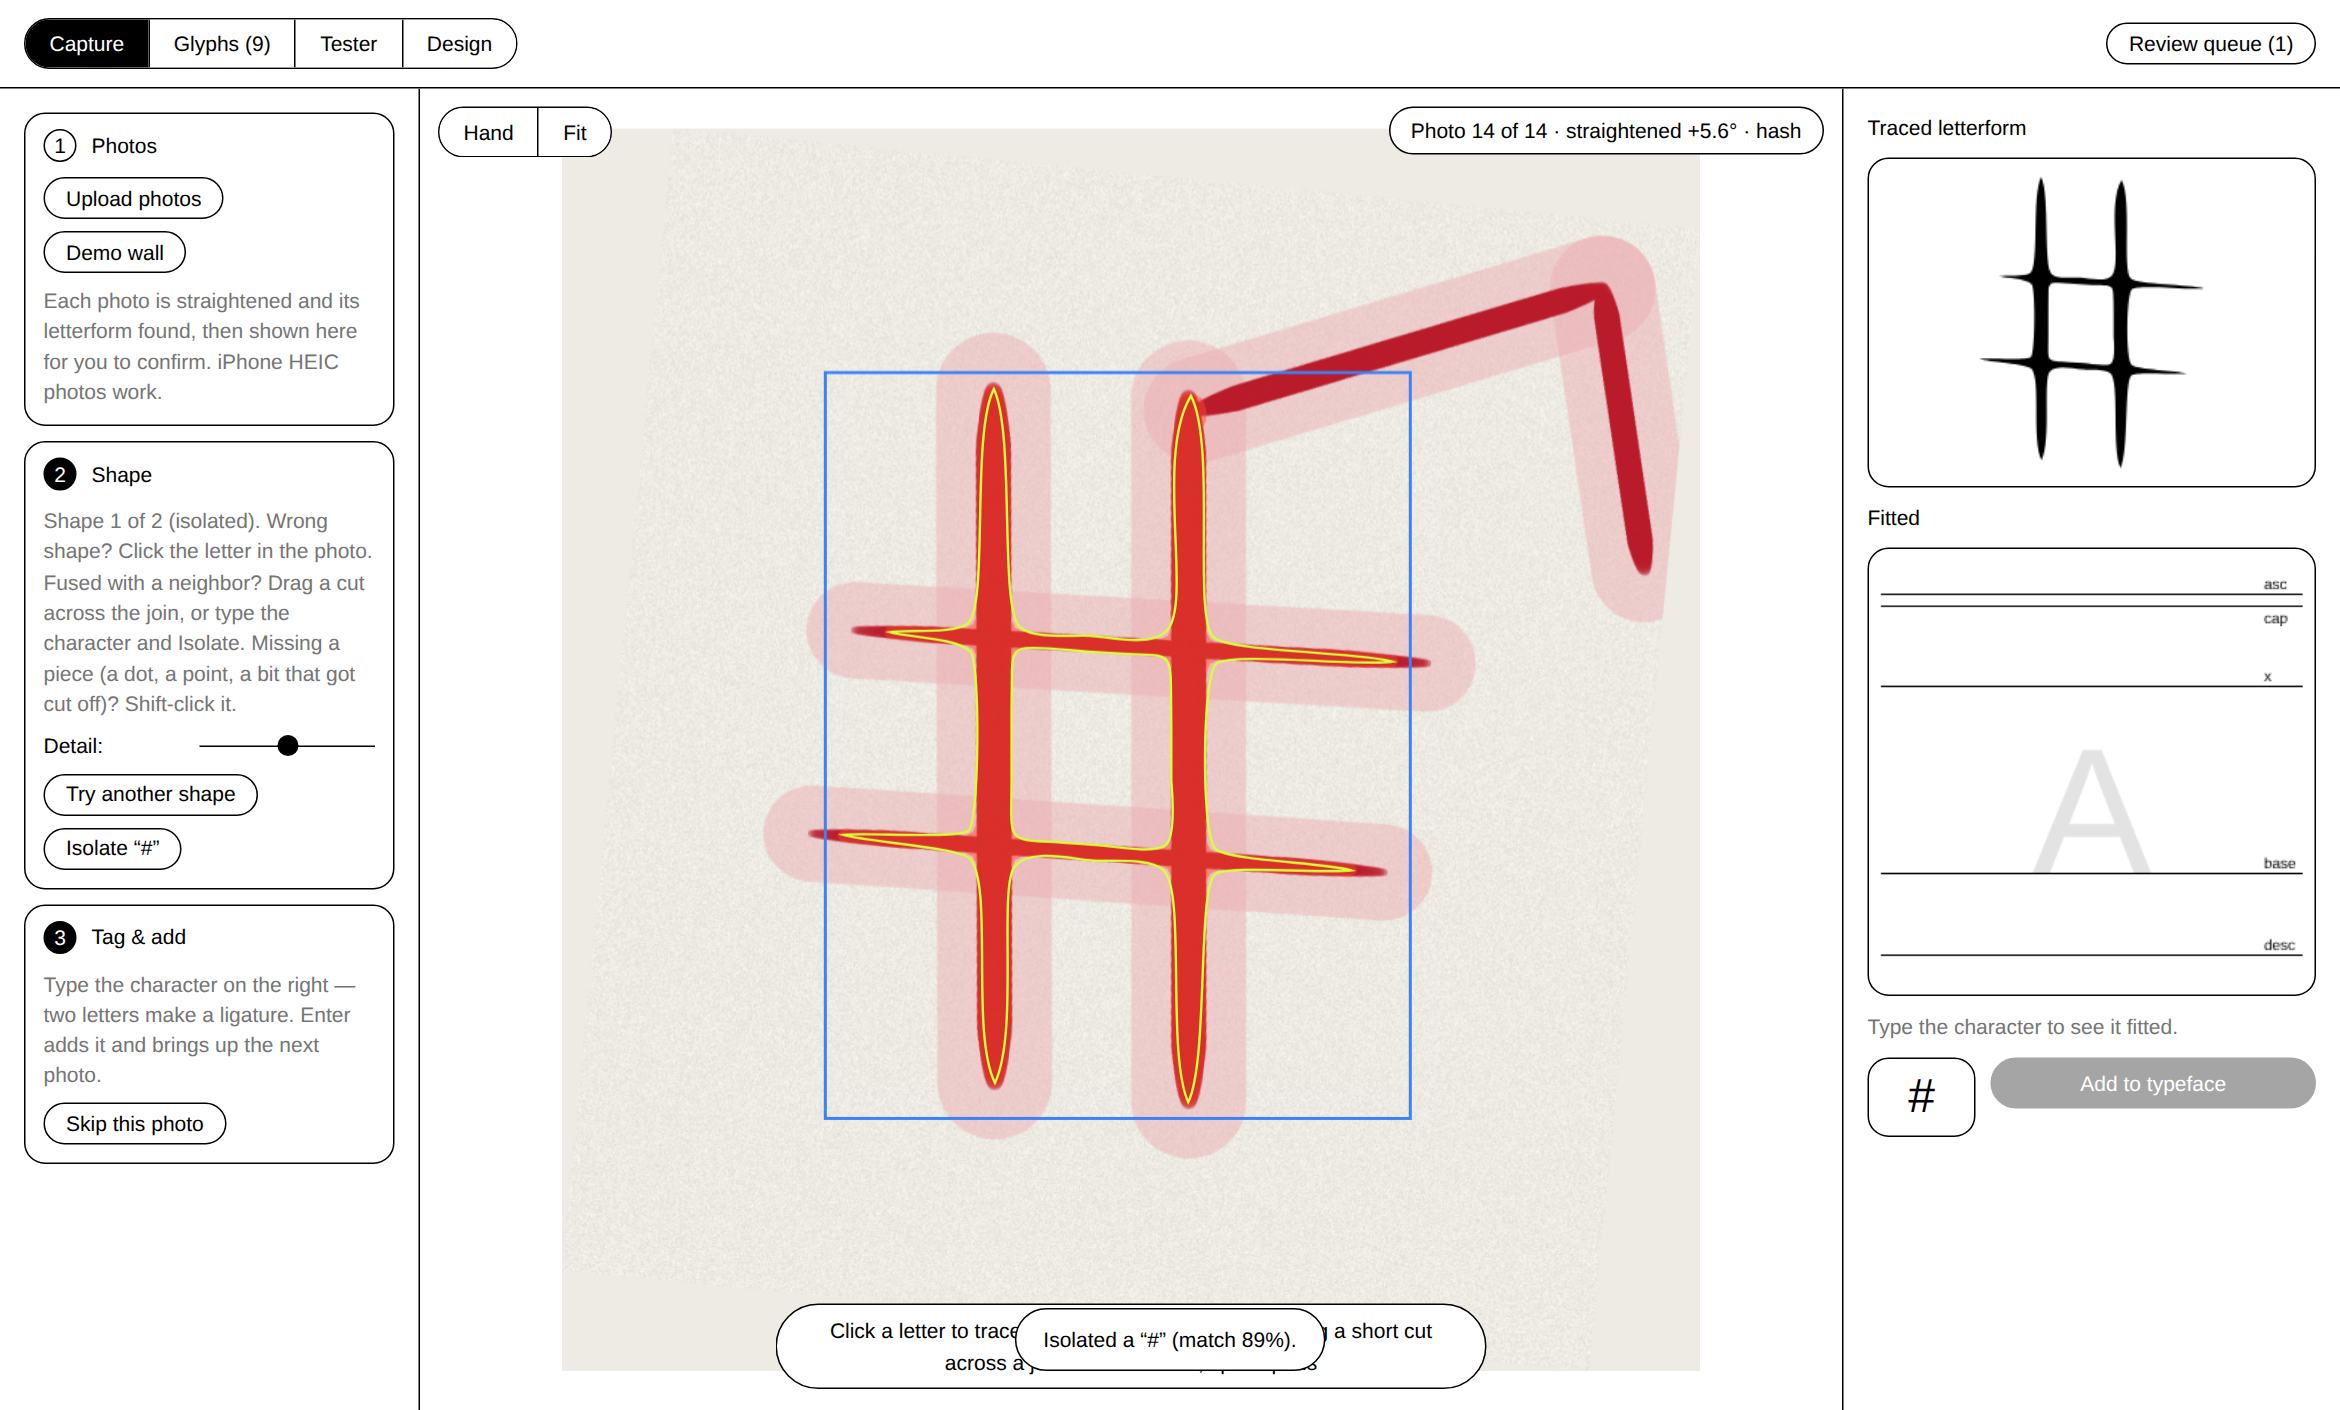
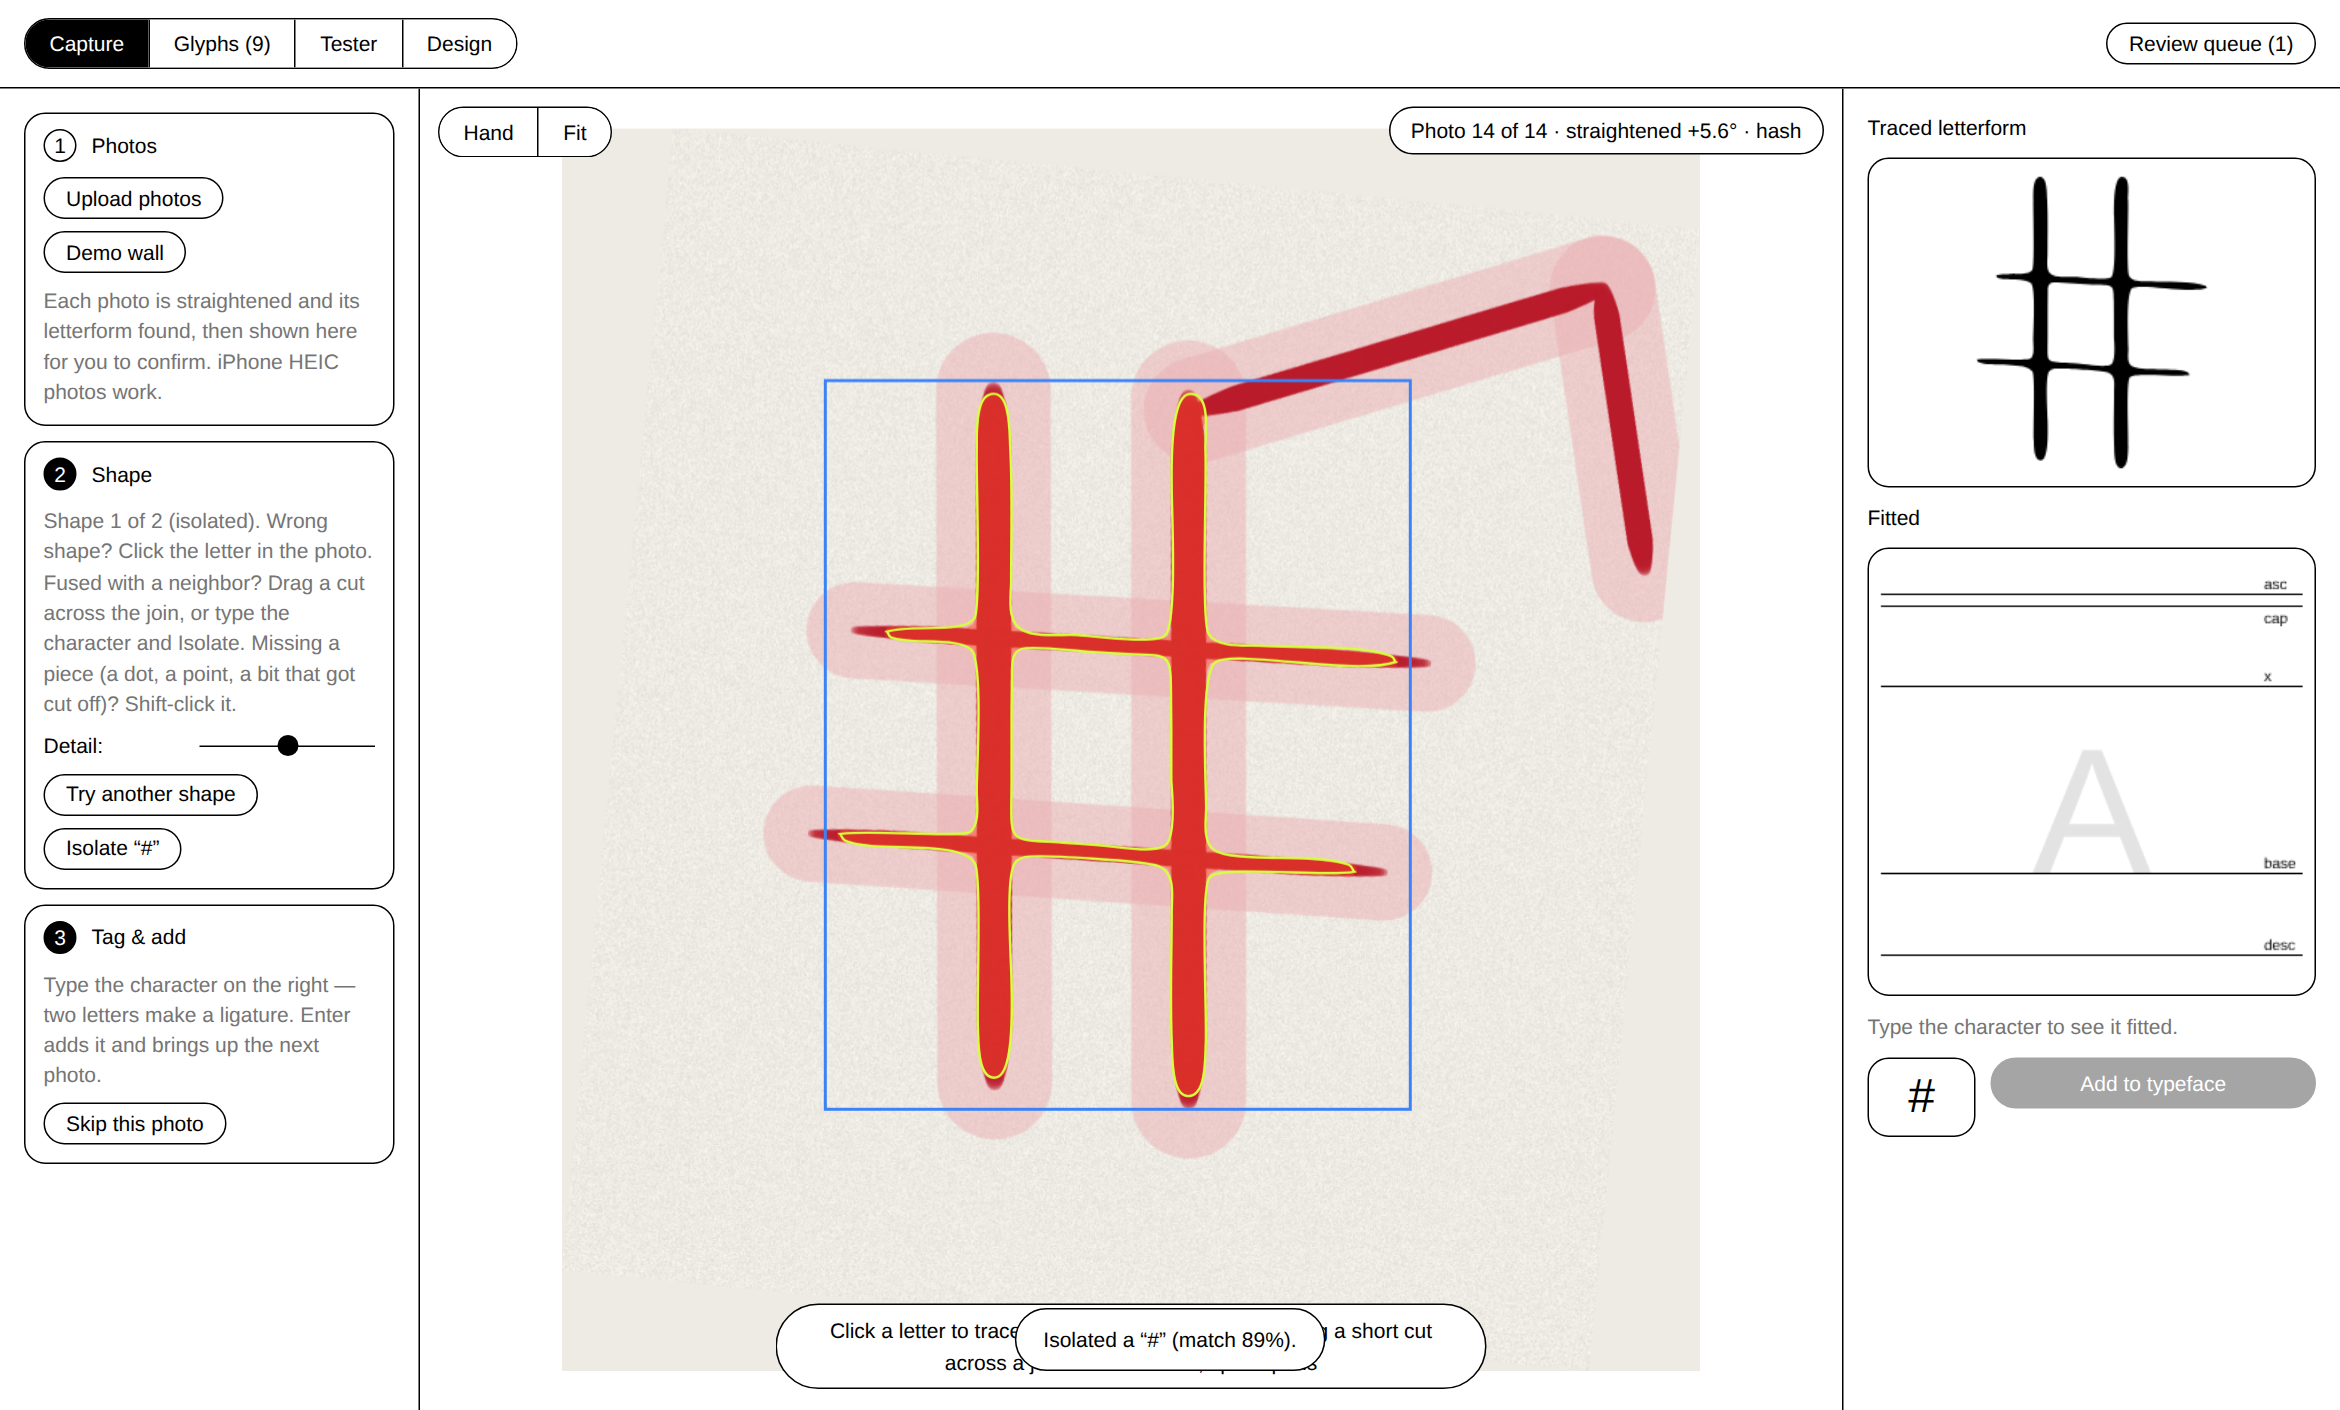
Marker caps: fading stroke ends become round, and the tracer keeps them round
A stroke that fades out — spray thinning, a marker lifting — tapers to a
point in the mask, and the tracer then read that point as a corner, so the
letter ended in a spike where the paint ended in a round tip.

- extract.capEnds walks the skeleton in from every free end to where the
  stroke has 70% of its body half-width back (within four half-widths),
  drops the taper beyond it (each ink pixel belongs to its nearest skeleton
  pixel) and ends the stroke with a disc of the local half-width. Ends that
  are already round are left alone, and so is anything wider than the stroke
  near its end (an arrowhead is drawn that way). Runs in cleanMask after
  the needle-point pruning.
- trace.vectorize caps its size-scaled tolerances by the stroke width: the
  box-smoothing window (≤0.3 sw), fit error (≤0.1 sw), corner span (≤0.35
  sw) and tangent span (≤0.6 sw), so a cap half a stroke across is fitted
  as a curve rather than flattened or split at a corner.
- On a synthetic marker k with fading ends the traced outline a third of a
  stroke in from each tip went from 19–22% of the stroke width (a point) to
  58–60% (a round cap); the genuinely round end reads 74%.

Tests: capEnds on a fading taper (trimmed, disc cap, far end untouched), a
stadium and an arrowhead left alone, and a round-ended stroke traced with no
sharp cubic join.

Claude-Session: https://claude.ai/code/session_01LpLU9S2UtvwRzH76eYZceq

diff --git a/test/caps.test.js b/test/caps.test.js
@@ -1,0 +1,87 @@
+'use strict';
+// Marker caps: fading stroke ends become round caps in the mask, and the
+// tracer keeps round ends round instead of sharpening them into corners.
+const { test } = require('node:test');
+const assert = require('node:assert');
+const { loadST } = require('./loader');
+
+const ST = loadST(['util.js', 'geometry.js', 'fitcurves.js', 'raster.js', 'trace.js', 'classify.js', 'extract.js']);
+
+// A horizontal stroke: round left cap at x0, half-width profile r(x) to x1.
+function stroke(w, h, cy, x0, x1, rOf) {
+  const m = new Uint8Array(w * h);
+  for (let x = x0; x <= x1; x++) {
+    const r = rOf(x);
+    if (!(r > 0)) continue;
+    for (let y = 0; y < h; y++) if (Math.abs(y - cy) <= r) m[y * w + x] = 1;
+  }
+  return m;
+}
+const count = (m) => ST.raster.count(m);
+function tipX(m, w, h) { let t = -1; for (let i = 0; i < m.length; i++) if (m[i]) t = Math.max(t, i % w); return t; }
+function colWidth(m, w, h, x) { let n = 0; for (let y = 0; y < h; y++) if (m[y * w + x]) n++; return n; }
+
+test('capEnds: a fading taper is cut back and ended with a round cap of the stroke width', () => {
+  const w = 260, h = 90, cy = 45, R = 14;
+  // round cap centred at 34, full width to 170, then a linear fade to a point at 230
+  const r = (x) => (x < 34 ? Math.sqrt(Math.max(0, R * R - (34 - x) * (34 - x))) : x <= 170 ? R : R - (R - 1) * ((x - 170) / 60));
+  const m = stroke(w, h, cy, 20, 230, r);
+  const sw = 2 * R;
+  const depth = Math.round(0.3 * sw);
+  const before = tipX(m, w, h);
+  assert.ok(colWidth(m, w, h, before - depth) < 0.3 * sw, `the taper is a point (${colWidth(m, w, h, before - depth)} px wide ${depth} px in)`);
+
+  const out = ST.extract.capEnds(m, w, h);
+  const tip = tipX(out, w, h);
+  assert.ok(tip >= 185 && tip <= 212, `taper trimmed to where the stroke has most of its width (tip at x=${tip})`);
+  const wid = colWidth(out, w, h, tip - depth);
+  assert.ok(wid >= 0.55 * sw, `round cap: ${wid} px wide ${depth} px in from the tip (stroke ${sw})`);
+  // the cap is a disc: widths shrink like a circle, never a wedge
+  const w2 = colWidth(out, w, h, tip - 2), w5 = colWidth(out, w, h, tip - 5);
+  assert.ok(w2 > 0 && w5 > w2 && wid > w5, `widths grow from the tip like a circle (${w2}, ${w5}, ${wid})`);
+  // the far, already-round end is untouched
+  let same = true;
+  for (let y = 0; y < h; y++) for (let x = 0; x < 120; x++) if (m[y * w + x] !== out[y * w + x]) same = false;
+  assert.ok(same, 'the round end and the body stay exactly as they were');
+});
+
+test('capEnds: a stroke that already ends in a round cap, or in an arrowhead, is left alone', () => {
+  const w = 260, h = 90, cy = 45, R = 14;
+  const stadium = stroke(w, h, cy, 20, 240, (x) => (x < 34 ? Math.sqrt(Math.max(0, R * R - (34 - x) ** 2)) : x <= 226 ? R : Math.sqrt(Math.max(0, R * R - (x - 226) ** 2))));
+  assert.strictEqual(count(ST.extract.capEnds(stadium, w, h)), count(stadium), 'stadium unchanged');
+  // thin shaft with a triangular head that comes to a point: drawn that way, not faded
+  const arrow = stroke(w, h, cy, 20, 215, (x) => (x < 28 ? Math.sqrt(Math.max(0, 64 - (28 - x) ** 2)) : x <= 165 ? 8 : 24 * (215 - x) / 50));
+  assert.strictEqual(count(ST.extract.capEnds(arrow, w, h)), count(arrow), 'arrowhead unchanged');
+});
+
+test('vectorize keeps a round stroke end round (no corner at the cap)', () => {
+  const w = 460, h = 80, cy = 40, R = 15;
+  const m = stroke(w, h, cy, 20, 440, (x) => (x < 35 ? Math.sqrt(Math.max(0, R * R - (35 - x) ** 2)) : x <= 425 ? R : Math.sqrt(Math.max(0, R * R - (x - 425) ** 2))));
+  const paths = ST.trace.vectorize(m, w, h, {});
+  assert.strictEqual(paths.length, 1);
+  const poly = ST.trace.flattenAll(paths, 1)[0];
+  // width of the outline 0.3 strokes in from its right tip
+  let tip = -Infinity;
+  for (const p of poly) tip = Math.max(tip, p.x);
+  const line = tip - 0.3 * 2 * R;
+  const ys = [];
+  for (let i = 0; i < poly.length; i++) {
+    const a = poly[i], b = poly[(i + 1) % poly.length];
+    if ((a.x <= line && b.x > line) || (b.x <= line && a.x > line)) ys.push(a.y + (b.y - a.y) * ((line - a.x) / (b.x - a.x)));
+  }
+  assert.strictEqual(ys.length, 2, 'two crossings');
+  const wid = Math.abs(ys[0] - ys[1]);
+  assert.ok(wid >= 0.7 * 2 * R, `outline is ${wid.toFixed(1)} px wide ${(0.3 * 2 * R).toFixed(0)} px in (round: ~${(2 * Math.sqrt(R * R - (0.4 * R) ** 2)).toFixed(0)})`);
+  // G1 everywhere: no cubic join turns sharply
+  const cs = paths[0].cubics;
+  let maxTurn = 0;
+  for (let i = 0; i < cs.length; i++) {
+    const a = cs[i], b = cs[(i + 1) % cs.length];
+    const d1 = { x: a[3].x - a[2].x, y: a[3].y - a[2].y }, d2 = { x: b[1].x - b[0].x, y: b[1].y - b[0].y };
+    const l1 = Math.hypot(d1.x, d1.y), l2 = Math.hypot(d2.x, d2.y);
+    if (l1 < 1e-6 || l2 < 1e-6) continue;
+    const ang = Math.acos(Math.max(-1, Math.min(1, (d1.x * d2.x + d1.y * d2.y) / (l1 * l2))));
+    maxTurn = Math.max(maxTurn, ang);
+  }
+  assert.ok(maxTurn < (35 * Math.PI) / 180, `sharpest join ${(maxTurn * 180 / Math.PI).toFixed(1)}°`);
+});

diff --git a/js/extract.js b/js/extract.js
@@ -294,7 +294,10 @@
       const ro = Math.max(0, Math.min(rc, rt > 0 ? Math.floor(rt * 0.7) : rc));
       if (rc > 0) m = R.close(m, w, h, rc);
       if (ro > 0) m = R.open(m, w, h, ro);
-      if (!(opts && opts.noRound)) m = ex.roundEnds(m, w, h, null);
+      if (!(opts && opts.noRound)) {
+        m = ex.roundEnds(m, w, h, null);
+        m = ex.capEnds(m, w, h);
+      }
     }
     // fill speckle gaps — holes smaller than the pen could leave on purpose
     // (well under a stroke width across, more with the knob up); a counter,
@@ -313,6 +316,74 @@
     const rt = R.thinRadius(mask, w, h, dt, region);
     const r = Math.round(rt * 0.7);
     return r >= 2 ? R.pruneThin(mask, w, h, r, region) : mask;
+  };
+
+  // Marker caps. A stroke that fades out — spray thinning, a marker lifting
+  // — tapers to a point in the mask, and no pen leaves a point. Walk the
+  // skeleton in from each free end to where the stroke has its width back
+  // (85% of that stroke's body half-width, within three half-widths), drop
+  // the taper beyond, and end the stroke there with a disc of the local
+  // half-width: the round cap a marker tip leaves. Ends already that round
+  // are left alone; so is anything WIDER than the stroke near its end (an
+  // arrowhead is drawn that way, not faded).
+  ex.capEnds = function (mask, w, h) {
+    const sw = R.strokeWidth(mask, w, h);
+    if (sw < 4) return mask;
+    const dt = R.distanceTransform(mask, w, h);
+    const graph = strokeGraph(mask, w, h, sw);
+    const skel = graph.skel;
+    const cls = new Uint8Array(w * h); // skeleton px: 1 = body, 2 = taper
+    for (let i = 0; i < skel.length; i++) if (skel[i]) cls[i] = 1;
+    const caps = [];
+    for (const s of graph.segments) {
+      for (let k = 0; k < 2; k++) {
+        const e = s.ends[k];
+        if (e < 0 || !graph.endpoint[e]) continue;
+        const path = [e].concat(k === 0 ? s.pixels : s.pixels.slice().reverse());
+        const vals = path.map((i) => dt[i]).sort((a, b) => a - b);
+        const rBody = vals[Math.floor(vals.length * 0.75)];
+        if (!(rBody >= 1.5)) continue;
+        const otherFree = s.ends[1 - k] >= 0 && graph.endpoint[s.ends[1 - k]];
+        const reach = Math.min(otherFree ? Math.floor(path.length / 2) : path.length - 1, Math.ceil(4 * rBody));
+        let ci = -1, dmax = 0;
+        for (let i = 0; i <= reach; i++) {
+          dmax = Math.max(dmax, dt[path[i]]);
+          if (ci < 0 && dt[path[i]] >= 0.7 * rBody) ci = i;
+        }
+        if (dmax > 1.15 * rBody) continue;
+        if (ci < 0) ci = reach;
+        const c = path[ci], rc = dt[c];
+        if (rc < 1.5 || ci <= 0.5 * rc) continue;
+        for (let i = 0; i < ci; i++) cls[path[i]] = 2;
+        caps.push({ c, r: rc });
+      }
+    }
+    if (!caps.length) return mask;
+    // every ink pixel belongs to its nearest skeleton pixel: the taper's goes
+    const label = new Uint8Array(w * h);
+    const queue = new Int32Array(w * h);
+    let qh = 0, qt = 0;
+    for (let i = 0; i < skel.length; i++) if (skel[i] && mask[i]) { label[i] = cls[i]; queue[qt++] = i; }
+    while (qh < qt) {
+      const i = queue[qh++], L = label[i], x = i % w;
+      if (x > 0 && mask[i - 1] && !label[i - 1]) { label[i - 1] = L; queue[qt++] = i - 1; }
+      if (x < w - 1 && mask[i + 1] && !label[i + 1]) { label[i + 1] = L; queue[qt++] = i + 1; }
+      if (i >= w && mask[i - w] && !label[i - w]) { label[i - w] = L; queue[qt++] = i - w; }
+      if (i + w < mask.length && mask[i + w] && !label[i + w]) { label[i + w] = L; queue[qt++] = i + w; }
+    }
+    const out = new Uint8Array(mask);
+    for (let i = 0; i < out.length; i++) if (label[i] === 2) out[i] = 0;
+    for (const cap of caps) {
+      const cx = cap.c % w, cy = (cap.c / w) | 0, r = cap.r, r2 = (r + 0.5) * (r + 0.5);
+      const x0 = Math.max(0, Math.floor(cx - r)), x1 = Math.min(w - 1, Math.ceil(cx + r));
+      const y0 = Math.max(0, Math.floor(cy - r)), y1 = Math.min(h - 1, Math.ceil(cy + r));
+      for (let y = y0; y <= y1; y++) {
+        for (let x = x0; x <= x1; x++) {
+          if ((x - cx) * (x - cx) + (y - cy) * (y - cy) <= r2) out[y * w + x] = 1;
+        }
+      }
+    }
+    return out;
   };
 
   // Where a cut sliced through the strokes, round the sliced ends with a

diff --git a/js/trace.js b/js/trace.js
@@ -271,6 +271,11 @@
       opts || {}
     );
     const loops = trace.maskToLoops(mask, w, h);
+    // the stroke width bounds every size-scaled tolerance below: a round
+    // cap is only a half-stroke across, and a window or span wider than
+    // that flattens it or reads it as a corner
+    const sw = o.strokeWidth != null ? o.strokeWidth
+      : (ST.raster && ST.raster.strokeWidth ? ST.raster.strokeWidth(mask, w, h) : 0);
     const out = [];
     for (const loop of loops) {
       const area = V.signedArea(loop); // >0 outer, <0 hole (mask convention)
@@ -289,10 +294,13 @@
         // uniformly, low-pass with a box window ~2% of the contour (two
         // passes), keep simplification fine, scale the fit tolerance
         // (~1% of size), and measure corners/tangents across a span so a
-        // single vertex never dictates a split.
+        // single vertex never dictates a split — each capped by the stroke
+        // width so thin strokes keep their round ends.
         const step = Math.max(1.5, size * 0.004);
         let pp = resampleClosed(loop, step);
-        const rad = Math.max(1, Math.round((size * 0.02) / step));
+        let boxArc = size * 0.02;
+        if (sw > 0) boxArc = Math.min(boxArc, sw * 0.3);
+        const rad = Math.max(1, Math.round(boxArc / step));
         pp = boxSmoothClosed(pp, rad, 2);
         // The fitter gets the DENSE points. Simplifying first strips a
         // straight stretch down to its two ends, and a fit checked only at
@@ -301,8 +309,13 @@
         // check sees every bulge.
         pts = pp;
         fitErr = o.fitErr * Math.max(1, size * 0.0065);
+        if (sw > 0) fitErr = Math.min(fitErr, Math.max(o.fitErr, sw * 0.1));
         cornerSpan = Math.max(cornerSpan, size * 0.02);
         tanSpan = Math.max(tanSpan, size * 0.045);
+        if (sw > 0) {
+          cornerSpan = Math.max(o.rdpEps * 2.5, Math.min(cornerSpan, sw * 0.35));
+          tanSpan = Math.max(o.rdpEps * 2.5, Math.min(tanSpan, sw * 0.6));
+        }
       } else {
         pts = smoothClosed(loop, o.smoothIter); // dense, for the same reason
       }

diff --git a/README.md b/README.md
@@ -70,8 +70,16 @@ past an imperfect box stays.
 
 Stroke ends get a marker's round cap: nothing a pen draws is sharper than
 its tip, so needle points thinner than the thin side of the tip (measured
-from the distance transform of the shape) are pruned back to a cap — and
-where a cut sliced a stroke flat, the sliced face is capped the same way.
+from the distance transform of the shape) are pruned back to a cap. Where a
+stroke fades out — spray thinning, a marker lifting — the shape tapers to a
+point the pen never made: the skeleton is walked in from each free end to
+where the stroke has most of its width back, the taper beyond is dropped,
+and the stroke ends there with a disc of that width. Anything *wider* than
+the stroke near its end (an arrowhead) is drawn that way and kept. Where a
+cut sliced a stroke flat, the sliced face is capped the same way. The
+tracer then measures its corners and smoothing against the stroke width,
+so a round cap only half a stroke across is fitted as a curve, never
+sharpened into a corner.
 
 ![Isolate a fused 2](docs/shots/isolate-2.png)
 
